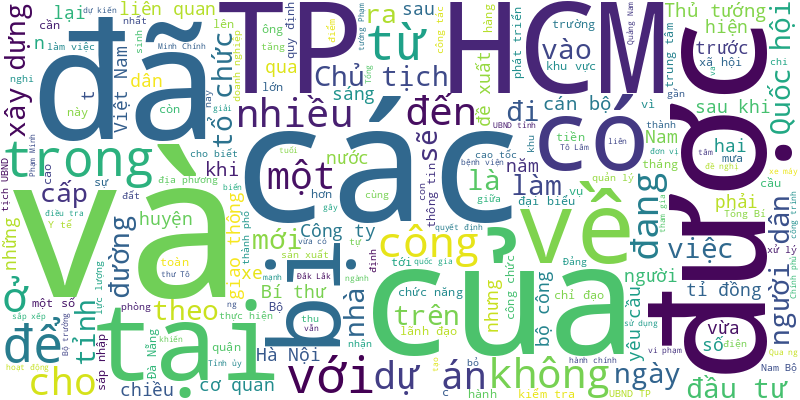
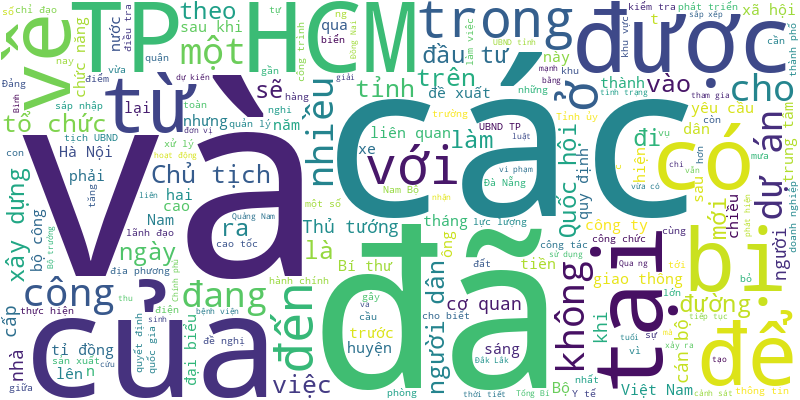
🍀 = 70%

diff --git a/README.md b/README.md
@@ -1,6 +1,25 @@
 # Tuoi Tre RSS 
 
 ## Giáo dục 
+- Chính quyền ông Trump vừa thông báo sẽ tích cực thu hồi thị thực (visa) của sinh viên Trung Quốc, một trong những nguồn thu lớn nhất của các trường đại học Mỹ.
+- B.G. (32 tuổi, TP.HCM) chuẩn bị đi học chương trình MBA tại Arizona State University, đang cân nhắc việc chuyển hướng sang Hà Lan nếu không xin được visa du học Mỹ.
+- 11 viện, trường đại học, trường cao đẳng được giao nhiệm vụ đào tạo nguồn nhân lực phục vụ phát triển điện hạt nhân đến năm 2035 tại Việt Nam.
+- Phụ huynh học sinh Trường Tiểu học Vĩnh Nguyên 1 không đồng tình với kế hoạch xáo trộn các lớp, cũng như việc ăn bán trú.
+- Thanh tra Bộ Giáo dục và Đào tạo yêu cầu hai trường đào tạo khối ngành y dược tổ chức kiểm điểm, làm rõ trách nhiệm những người để xảy ra thiếu sót, vi phạm trong đào tạo, tuyển sinh.
+- Đảng ủy xã ở Thanh Hóa công bố quyết định kỷ luật cảnh cáo bà Lê Thị Huệ - hiệu trưởng 1 trường mầm non - từng nói giáo viên là 'gái bao'.
+- Lãnh đạo tỉnh Bình Định khen thưởng bạn Lê Kiến Thành, học sinh xuất sắc đoạt huy chương bạc tại kỳ thi Olympic tin học APIO 2025.
+- Những ý tưởng khởi nghiệp của sinh viên cùng màn thuyết trình đầy lửa đã khiến các 'shark' phải gật đầu cam kết đầu tư ngay tại giảng đường.
+- Trường đại học Gia Định, TP.HCM sẽ tuyển sinh, đào tạo ngành răng - hàm - mặt trình độ đại học chính quy từ năm 2025.
+- Sáng 28-5, Thủ tướng Phạm Minh Chính đã thăm và phát biểu chính sách tại Đại học Quốc gia Malaysia (UKM).
+- Hình ảnh trẻ mầm non mặc áo cử nhân, đội mũ vuông, tay cầm “bằng tốt nghiệp” xuất hiện ngày càng phổ biến.
+- Đó là thông tin đặt ra tại hội nghị tập huấn nghiệp vụ thanh tra, kiểm tra thi tốt nghiệp THPT 2025 cho các sở GD-ĐT và các cơ sở ĐH ngày 27-5.
+- Người phát ngôn của Đệ nhất phu nhân Mỹ bác tin đồn cho rằng Barron bị Đại học Harvard từ chối vì mâu thuẫn giữa ông Trump và trường này.
+- Hiện nay ở nhiều địa phương, công tác tuyển dụng giáo viên không phải do ngành giáo dục chủ trì.
+- Sinh viên ngành truyền thông đa phương tiện Trường đại học Hòa Bình sẽ được học học phần nhiếp ảnh kỹ thuật số tại tòa soạn báo Tuổi Trẻ.
+- Nhật Bản kêu gọi các trường đại học trong nước tiếp nhận những sinh viên Harvard bị ảnh hưởng, coi đây là cơ hội nâng tầm giáo dục nước nhà.
+- Sau sáp nhập, nhiều tỉnh thành có hai trường đại học thuộc tỉnh. Một số tỉnh có trường đại học mang tên địa phương trước sáp nhập.
+- Hãy một lần ngồi xuống, nắm đôi bàn tay của ba, nhìn sâu vào đôi mắt của mẹ, để hiểu rằng ba mẹ vô cùng cực nhọc để có thể lo cho em.
+- Suốt ba năm qua, các địa phương mới chỉ tuyển được gần 6.000 giáo viên trong số 66.000 chỉ tiêu biên chế được giao.
 - Ngoại trưởng Mỹ chỉ đạo tạm dừng cấp lịch phỏng vấn cấp visa du học trong thời gian triển khai kiểm tra mạng xã hội các ứng viên visa.
 - Politico nhận định nếu Washington tiến hành kế hoạch trên, quá trình xử lý thị thực sinh viên có thể bị làm chậm nghiêm trọng.
 - Đội tuyển học sinh Việt Nam đứng thứ năm trong kỳ thi Olympic tin học châu Á - Thái Bình Dương với 1 huy chương vàng, 2 huy chương bạc và 3 huy chương đồng.
@@ -984,27 +1003,60 @@ Trường đại học Văn Lang được QS xếp hạng top 51-100 thế giớ
 - Thí sinh thắc mắc cận thị hơn 3 độ có xét tuyển vào Học viện Kỹ thuật quân sự được không?
 - Thông tin tuyển sinh sai có thể khiến bạn trẻ lệch hướng. Vì vậy đừng ngần ngại đặt câu hỏi, đừng ngại chia sẻ những băn khoăn, ước mơ của mình với các thầy cô và chuyên gia.
 - Nhiều học sinh, phụ huynh chia sẻ đã chốt được ngành học sau khi đến tìm hiểu thông tin tại Ngày hội tư vấn tuyển sinh - hướng nghiệp của báo Tuổi Trẻ.
-- Sáng 2-3, Ngày hội tư vấn tuyển sinh - hướng nghiệp tại TP.HCM chính thức diễn ra với hàng chục ngàn học sinh, phụ huynh từ các tỉnh thành phía Nam đến tham dự.
-- Việc miễn học phí giúp giảm gánh nặng cho phụ huynh, đồng thời tạo thêm động lực để học sinh nỗ lực học tập, hướng tới tương lai vững chắc.
-- Hai ngày hội sẽ mang đến cho học sinh, phụ huynh nhiều thông tin 'nóng hổi' về kỳ thi tốt nghiệp THPT và tuyển sinh đại học năm 2025.
-- Các trường đại học, cao đẳng... đã hoàn tất những khâu cuối cùng để chào đón thí sinh, phụ huynh đến dự Ngày hội tư vấn tuyển sinh - hướng nghiệp ngày mai 2-3.
-- Năm 2025, Trường đại học Quốc tế (Đại học Quốc gia TP.HCM) tuyển sinh theo 3 nhóm phương thức và sẽ thưởng điểm trong xét tuyển cho thí sinh trong 3 trường hợp.
-- Theo bà Tôn Nữ Thị Ninh, nếu biết phát triển lợi thế của mình, khắc phục điểm yếu và giữ vững sự tự tin, các bạn trẻ có thể tạo ra giá trị riêng.
-- Sau khi tự thiết kế các chiếc xe đua, các đội chơi sẽ đọ tốc độ để tìm ra quán quân giành những giải thưởng hấp dẫn.
-- Hội thi ảnh Tuổi Xanh năm nay gây bất ngờ khi có hơn 17.000 ảnh dự thi.
-- Nicky - một trong 30 Anh trai say hi mùa đầu tiên - là ca sĩ khách mời Ngày hội tư vấn tuyển sinh - hướng nghiệp 2025 do báo Tuổi Trẻ tổ chức tại Trường đại học Bách khoa TP.HCM, diễn ra vào chủ nhật, ngày 2-3.
-- Đây là một trong những định hướng phát triển trong quy hoạch mạng lưới cơ sở giáo dục đại học đến năm 2030.
-- Miễn học phí cho học sinh công lập thể hiện bước tiến lớn của Việt Nam trong xây dựng nền giáo dục công bằng, nhân văn, bền vững.
-- Xưng hô ra sao khi gặp bác sĩ dấy lên tranh cãi nhiều chiều từ bạn đọc. Bác sĩ Hồ Mạnh Tường chia sẻ ở góc độ người trong cuộc.
-- Năm học 2025-2026, các trường trung học phổ thông công lập tỉnh Thái Bình sẽ tuyển 16.275 học sinh với 365 lớp.
-- Học về vũ trụ, cơ hội việc làm ra sao? Chọn ngành học nào để 4-5 sau không bị 'tụt hậu'? Môi trường học ở trường quân đội khác dân sự thế nào?...
-- Mùa thực tập, nhiều sinh viên gửi hồ sơ khắp nơi nhưng không nhận được phản hồi. Nhiều sinh viên cho rằng yêu cầu kinh nghiệm là rào cản lớn với người sắp ra trường.
-- Sáng nay 1-3, hàng ngàn học sinh Hải Dương dự tư vấn tuyển sinh - hướng nghiệp tại Hải Dương với nhiều băn khoăn mong chờ được giải đáp.
-- Bà Vũ Thị Thúy Hà (51 tuổi, giáo viên Trường tiểu học Đông Thọ, TP Thanh Hóa, nguyên hiệu trưởng trường này) vừa bị khởi tố, tạm đình chỉ công tác vì liên quan đến bữa ăn bán trú.
-- Bộ Chính trị quyết định thực hiện miễn toàn bộ học phí cho học sinh từ mầm non đến hết trung học phổ thông công lập trên phạm vi cả nước, thực hiện từ đầu năm học mới 2025-2026.
-- Chương trình do Đại học Quản lý Singapore (SMU) thiết kế, hướng đến phát triển kiến thức và kỹ năng quản trị, tài chính, phát triển bền vững.
 ![Edu](Edu.png)
 ## Thời Sự 
+- Phán quyết của Tòa án Thương mại quốc tế Mỹ đình chỉ hầu hết các khoản thuế quan mà ông Trump áp đặt lên các nước.
+- Từ trung tâm đến cửa ngõ TP.HCM, hàng loạt tuyến đường và cầu xuống cấp sẽ được 'hồi sức', nhằm đảm bảo an toàn giao thông, nâng chất lượng hạ tầng.
+- Lực lượng cảnh sát bất ngờ kiểm tra một cửa hàng đồ si ở Long Xuyên, An Giang phát hiện nhiều hàng hóa có dấu hiệu nhập lậu và hàng giả mạo thương hiệu nổi tiếng. Lực lượng cảnh sát đã tạm giữ hàng loạt sản phẩm để tiếp tục điều tra.
+- Sáng nay (29-5), Quốc hội thảo luận ở hội trường nghị quyết về thí điểm viện kiểm sát nhân dân khởi kiện vụ án dân sự để bảo vệ quyền dân sự của các chủ thể là nhóm dễ bị tổn thương hoặc bảo vệ lợi ích công.
+- Thay vì quy định công chức xa chỗ làm 30km mới được mua nhà xã hội, dự thảo nghị quyết mới nhất quy định căn cứ điều kiện thực tế của địa phương, UBND cấp tỉnh quy định chi tiết.
+- Công an Đà Nẵng khởi tố vụ án chôn lấp trái phép 162 tấn chất thải rắn tại dự án nhà máy đốt chất thải rắn phát điện tại Khánh Sơn và khởi tố bị can liên quan để điều tra, xử lý nghiêm hành vi gây ô nhiễm môi trường.
+- Từ đêm hôm qua 28-5 đến sáng nay TP.HCM và Nam Bộ có mưa liên tục, hiện tại mây dông vẫn bao phủ, dự báo mưa lớn duy trì.
+- Hôm nay 29-5, thời tiết Bắc Bộ và Nam Bộ mưa nhiều nơi, một số tỉnh Trung Bộ ngày nắng, chiều tối mưa rào.
+- Tin tức đáng chú ý: Quốc hội biểu quyết thông qua nghị quyết thí điểm cơ chế phát triển nhà ở xã hội; Dự báo nợ xấu sẽ giảm về dưới 3%; Ngân hàng sắp bán đấu giá khoản nợ trăm tỉ của công ty 'họ' FLC...
+- Tổng Bí thư Tô Lâm nhấn mạnh hai dân tộc có quan hệ rất đặc biệt khi gặp Tổng thống Hungary Sulyok Tamas, đồng thời đề nghị tăng cường hợp tác trong nhiều lĩnh vực truyền thống.
+- TP.HCM sẽ thu hồi khu đất bãi xe hơn 3.500m² ở quận Tân Bình, giao Trung tâm Phát triển quỹ đất tiếp quản, quản lý.
+- Sở Xây dựng TP.HCM vừa có văn bản gửi các đơn vị liên quan đề nghị hướng dẫn giải quyết các vướng mắc trong việc lắp đặt trạm sạc điện tại TP.HCM.
+- Chủ tịch UBND TP.HCM cơ bản thống nhất nội dung dự thảo kế hoạch chi tiết xử lý vướng mắc cho các công trình, dự án tồn đọng.
+- Đảng ủy xã ở Thanh Hóa công bố quyết định kỷ luật cảnh cáo bà Lê Thị Huệ - hiệu trưởng 1 trường mầm non - từng nói giáo viên là 'gái bao'.
+- Đại biểu đề nghị Quốc hội quy định trách nhiệm của cơ quan thu thuế và thuế giá trị gia tăng (VAT), bởi hiện doanh nghiệp bức xúc vì lúc thu thuế rất dễ nhưng lúc hoàn rất khó.
+- Phó thủ tướng Lê Thành Long yêu cầu Bộ Y tế báo cáo rõ các hạn chế, bất cập trong các quy định về quản lý an toàn thực phẩm chức năng.
+- Tổng Bí thư Tô Lâm yêu cầu xóa bỏ thế độc quyền Nhà nước về thương hiệu vàng miếng một cách có kiểm soát.
+- Chiều 28-5, Chủ tịch UBND TP Hà Nội Trần Sỹ Thanh chủ trì hội nghị gặp gỡ, đối thoại với công nhân lao động thủ đô năm 2025.
+- Đề nghị quy định cấm phát biểu công kích cá nhân, cấm tự ý rời khỏi hội trường khi Quốc hội đang họp mà không có lý do chính đáng.
+- Ngày 28-5, trên Biển Đông hình thành một vùng áp thấp. Hiện cơ quan khí tượng chưa đưa ra nhận định về khả năng mạnh lên thành áp thấp nhiệt đới hoặc bão.
+- Thông điệp được Tổng thống Hungary Sulyok Tamas nêu trong cuộc hội đàm với Chủ tịch nước Lương Cường, tại Phủ Chủ tịch ngày 28-5.
+- Mô hình thí điểm của đề án tiếp tục đạt được lợi nhuận cao hơn từ 8,6 - 9 triệu đồng/ha, giảm chi phí sản xuất 2,63 triệu đồng/ha.
+- Vụ việc bảo vật quốc gia ngai vàng triều Nguyễn bị bẻ gãy gây rúng động dư luận. Tuy nhiên đây không phải là bảo vật quốc gia đầu tiên bị xâm hại ở Huế.
+- Lãnh đạo 3 địa phương Cần Thơ, Sóc Trăng và Hậu Giang thống nhất 4 khâu đột phá cho sự phát triển của thành phố Cần Thơ sau hợp nhất.
+- Nhiều bạn đọc lo ngại việc xây 5 tuyến đường xuyên trường đua Phú Thọ sẽ 'xé nhỏ' không gian vốn nên dành cho công viên, trung tâm thể thao tầm cỡ.
+- Tòa tuyên án đường dây cho vay nặng lãi quy mô ngàn tỉ qua app. Bị cáo cầm đầu Wang Yun Tao, người Trung Quốc, lãnh mức án 33 tháng tù.
+- Đồng Tháp đã cung ứng gần 9,5 triệu m³ cát cam kết cung ứng cho 4 công trình trọng điểm của trung ương.
+- Ban Thường vụ Tỉnh ủy Yên Bái và Lào Cai thông qua phương án nhân sự bước 1 tỉnh Lào Cai mới (sau hợp nhất).
+- Ban Chỉ đạo Trung ương đề nghị Bộ Nội vụ ban hành quy định tiêu chuẩn chức danh công chức xã, phường, đặc khu.
+- Bộ Nông nghiệp và Môi trường và Tổng cục Hải quan Trung Quốc thống nhất tháo gỡ những vướng mắc về xuất khẩu sầu riêng của Việt Nam.
+- Đến sáng 28-5, các đơn vị đã khắc phục cơ bản tình trạng bùn phun lên trên mặt đất, xảy ra trong quá trình đào hầm làm metro Nhổn - ga Hà Nội.
+- Đồng Nai yêu cầu các chủ đầu tư chỉ đạo nhà thầu khẩn trương khắc phục tình trạng thi công dự án trọng điểm quốc gia gây ngập úng, hư hỏng đường.
+- Sau khi xảy ra mâu thuẫn, một bác sĩ ở một phòng khám đa khoa tại thành phố Long Khánh, tỉnh Đồng Nai đã đâm đồng nghiệp bị thương.
+- Phó chủ tịch Quốc hội đề nghị các cơ quan chức năng, đối tác từ Trung Quốc tiếp tục tạo điều kiện rút ngắn thủ tục hành chính, tạo "luồng xanh".
+- Dù đã ký hợp đồng với 7 đơn vị thi công khắc phục sạt lở, nhưng gần 5 tháng nay việc thi công vẫn ì ạch, chỉ đạt hơn 40% khối lượng công trình.
+- Chỉ trong vòng 2 năm, TP.HCM đã ghi nhận gần 800 trường hợp "trẻ em sinh ra trẻ em".
+- Nhiều ngày qua, mỗi ngày có hàng chục tấn lục bình, rác thải tấp vào biển Vũng Tàu.
+- Bamboo Airways vừa ký hợp đồng thuê ướt tàu bay Boeing 737-900ER. Vietnam Airlines, Vietjet, Vietravel Airlines cũng mở rộng đội bay.
+- Hình ảnh trẻ mầm non mặc áo cử nhân, đội mũ vuông, tay cầm “bằng tốt nghiệp” xuất hiện ngày càng phổ biến.
+- Liên quan đến vụ tai nạn giao thông ở Vĩnh Long, điều tra viên Cơ quan điều tra Viện Kiểm sát nhân dân tối cao bắt đầu lấy lời khai gia đình nữ sinh.
+- Huế đề xuất với Bộ Văn hóa, Thể thao và Du lịch lập hội đồng khoa học để đánh giá tình trạng, đề xuất phương án sửa ngai vàng bị bẻ gãy.
+- Bình Phước đang xem xét đơn kiến nghị của Tập đoàn Sơn Hải, trong đó có nội dung đề nghị chấm thầu lại.
+- Lên rẫy theo cha mẹ đi nhổ mì, bé trai người Ba Na trèo lên xe máy cày để chơi, nhưng không may ngã xe chấn thương nặng và qua đời sau đó.
+- 'Cảm ơn rất nhiều', Tổng thống Pháp Emmanuel Macron bày tỏ bằng tiếng Việt trên mạng xã hội X sau khi khép lại chuyến thăm Việt Nam ngày 27-5.
+- Sắp tới nhà đất mua bằng giấy tay có thể được cấp giấy chứng nhận quyền sử dụng đất, quyền sở hữu nhà ở và tài sản khác gắn liền với đất?
+- Ông Cảnh mang theo bảng hình ảnh minh họa về tổ chức giao thông tại vòng xoay làm minh chứng.
+- Sáng 28-5, các đại biểu Quốc hội thảo luận ở hội trường về dự án Luật sửa đổi, bổ sung một số điều của Luật Quy hoạch.
+- Ngay sau lễ đón trọng thể sáng 28-5, Chủ tịch nước Lương Cường và Tổng thống Hungary Sulyok Tamas đã hội đàm tại Phủ Chủ tịch.
+- Vinacam kiến nghị Thủ tướng làm rõ trách nhiệm vụ sầu riêng bị trả vì dư lượng cadimi, nghi do phân bón DAP Hàn Quốc.
+- Theo kế hoạch trong tháng 6, TP.HCM sẽ khởi công nhiều hạng mục chiếu sáng mỹ thuật cho các công trình giúp thu hút du khách và người dân.
+- Suốt ba năm qua, các địa phương mới chỉ tuyển được gần 6.000 giáo viên trong số 66.000 chỉ tiêu biên chế được giao.
+- Do ảnh hưởng của gió mùa tây nam và hội tụ gió trên khu vực nên thời tiết Nam Bộ, TP.HCM có đợt mưa lớn trong những ngày cuối tháng 5.
 - Một số tin tức đáng chú ý: Quốc hội bàn sửa Luật Quy hoạch, giảm 2% thuế VAT đến hết 2026; F88 lên kế hoạch chia cổ phiếu thưởng 1.200%; Điều chỉnh giao thông đường Lê Lợi, quận 1, TP.HCM...
 - Thay vì cấp thuốc bảo hiểm y tế hàng tháng, nhiều người mắc bệnh mạn tính như tiểu đường, huyết áp... mong được cấp thuốc 2 hoặc 3 tháng/lần để giảm thời gian chờ khám và giảm tải bệnh viện.
 - Hôm nay 28-5, thời tiết Bắc Bộ nhiều mây, chiều tối và đêm mưa tăng. Trung Bộ có nơi mưa to, Nam Bộ mưa tăng trở lại.
@@ -1052,7 +1104,7 @@ Trường đại học Văn Lang được QS xếp hạng top 51-100 thế giớ
 - Người dân đi từ quốc lộ 13 vào trung tâm TP.HCM thắc mắc vì sao đường chui Tầm Vu dưới chân cầu Bình Triệu bị rào chắn?
 - Ông ngoại lái ô tô chở cháu 30 tháng tuổi từ huyện Tư Nghĩa đến TP Quảng Ngãi. Khi qua cầu không có lan can, chiếc xe lao xuống sông Phước Giang.
 - Đà Nẵng cảnh báo tình trạng khan hiếm cát xây dựng có thể ảnh hưởng đến mục tiêu tăng trưởng trên 10% của thành phố trong năm 2025.
-- Dự án xây mới 5 tuyến đường khu Trường đua Phú Thọ là tiền đề để hình thành một khu liên hợp thể thao hoàn chỉnh, sẵn sàng phục vụ Đại hội Thể thao toàn quốc năm 2026.
+- Dự án xây mới 5 tuyến đường khu trường đua Phú Thọ là tiền đề để hình thành một khu liên hợp thể thao hoàn chỉnh, sẵn sàng phục vụ Đại hội Thể thao toàn quốc năm 2026.
 - Tập đoàn Trường Hải (THACO) vừa có văn bản gửi Thủ tướng Phạm Minh Chính và Phó thủ tướng Trần Hồng Hà, đề xuất được tham gia đầu tư dự án đường sắt tốc độ cao Bắc - Nam với cam kết làm chủ công nghệ, phát triển công nghiệp đường sắt Việt Nam.
 - Đại biểu Quốc hội tranh luận sôi nổi về việc bổ sung án chung thân không xét giảm án trong dự án luật.
 - Sở Xây dựng TP.HCM vừa thông báo điều chỉnh tổ chức giao thông trên đường dẫn cao tốc TP.HCM - Long Thành - Dầu Giây nhằm đảm bảo an toàn giao thông.
@@ -1953,60 +2005,11 @@ Trường đại học Văn Lang được QS xếp hạng top 51-100 thế giớ
 - Sau các vụ sụt đường ở Tây Ninh, máy bay trượt khỏi đường băng Tân Sơn Nhất…, bộ trưởng Bộ Xây dựng ban hành công điện đề nghị tăng cường công tác bảo đảm an toàn giao thông trên lĩnh vực.
 - Ngày 11-5, TP Hải Phòng tổ chức các sự kiện, chương trình chào mừng kỷ niệm 70 năm Ngày giải phóng Hải Phòng - Thành phố Anh hùng.
 - Công an tỉnh Quảng Ngãi bắt giữ 4 thanh niên chém người ở Đà Lạt khi đang lẩn trốn trên một chuyến xe khách.
-- Thủ tướng Phạm Minh Chính nhấn mạnh quyết tâm cơ bản xóa nhà tạm, nhà dột nát trên phạm vi cả nước trước ngày 31-10, sớm hơn 2 tháng so với mục tiêu ban đầu đã đề ra.
-- Kỹ thuật thụ tinh trong ống nghiệm đã giúp nhiều gia đình có được hạnh phúc. Tuy nhiên cũng có nhiều góc khuất nhiều người chưa hiểu hết.
-- Nhân chuyến công tác Nga, ngày 11-5, Tổng Bí thư Tô Lâm đã tiếp một số doanh nghiệp tiêu biểu của nước này. Ông khẳng định Việt Nam hoan nghênh các doanh nghiệp Nga mở rộng hợp tác, đầu tư.
-- Một người phụ nữ ở huyện miền núi Quảng Nam đã bị công an bắt sau hơn 10 năm bỏ trốn do bị truy nã về hành vi mua bán người.
-- Nút giao Ngọc Hội ở TP Nha Trang (Khánh Hòa) xuất hiện vết sụt lún dù chưa thi công xong.
-- Ngày 11-5 đã diễn ra lễ tổng kết và trao giải kỳ thi Olympic Cơ học toàn quốc lần thứ 35 - năm 2025 khu vực miền Bắc.
-- Trong khi đang câu cá ngừ đại dương, 1 tàu cá Bình Định bị chìm. 3 thuyền viên được cứu sống, 1 ngư dân mất tích.
-- Sau sắp xếp, cả nước từ 10.035 đơn vị cấp xã giảm 6.714 đơn vị (giảm 66,91%), còn 3.321 đơn vị hành chính cấp xã.
-- Cộng đồng mạng Phú Quốc vừa đăng tải đoạn clip ngắn cảnh hãi hùng về một người cầm vật lạ trên tay rồi liên tục gí vào người phụ nữ.
-- Bé 10 tháng tử vong tại điểm giữ trẻ, trong máu có nồng độ cồn; Lòng se điếu bán đầy thị trường... thu hút nhiều bạn đọc quan tâm tuần qua.
-- Bảy người bị ngã xuống hố sụt lún đường dẫn cầu Hòa Bình, tỉnh Tây Ninh, trong đó 5 người bị thương hiện hầu hết đã xuất viện.
-- Sáng 11-5, khu chuồng hổ Bengal tại Thảo cầm viên Sài Gòn rộn ràng với buổi sinh nhật độc lạ: Bình và Dương vừa tròn 2 tuổi.
-- Chủ tịch Quốc hội Trần Thanh Mẫn lưu ý tuyệt đối tránh tiêu cực và phải công tâm, khách quan trong đề xuất, giới thiệu nhân sự sau sắp xếp.
-- Sáng 11-5, sau cơn mưa lớn hôm qua, nước rút, người dân tại hẻm 789 tỉnh lộ 43, phường Tam Bình (TP Thủ Đức, TP.HCM) tất bật dọn dẹp.
-- Các đơn vị nghiệp vụ Công an tỉnh Khánh Hòa đang điều tra nguyên nhân vụ tai nạn giao thông ở trung tâm Nha Trang khiến một người phụ nữ tử vong.
-- Tuổi Trẻ Online trân trọng giới thiệu toàn văn bài viết 'Động lực mới cho phát triển kinh tế' của Tổng Bí thư Tô Lâm.
-- Tuyến đường 2 làn xe, tổng số tiền đầu tư 35 tỉ đồng nhưng đâm thẳng ra ruộng lúa, chờ ngày có khu dân cư trong tương lai.
-- Bộ Công Thương kiến nghị Thủ tướng cho phép điều chỉnh quy hoạch khoáng sản theo trình tự rút gọn sau khi 46/63 tỉnh, thành phố đồng loạt phản ánh.
-- Mưa lớn, dông lốc tại các tỉnh Bắc Bộ, Trung Bộ và Nam Bộ làm 1 người chết, 1 người nghi mất tích do nước cuốn.
-- Hàng vạn người đổ về khu vực Nhà hát thành phố xem duyệt đội ngũ và diễu hành quần chúng kỷ niệm 70 năm giải phóng Hải Phòng.
-- Vì sao hỗ trợ chỉ áp dụng cho phụ nữ dưới 35 tuổi sinh đủ hai con ở TP.HCM? Sao không áp dụng với tất cả phụ nữ sinh 2 con?
-- Lực lượng cứu hộ, cứu nạn Công an Bình Dương nỗ lực tìm kiếm ông Võ Văn P. (36 tuổi, quê Long An) nghi bị nước cuốn trôi sau cơn mưa lớn.
-- Tuần này thời tiết cả nước có nắng nhưng mưa dông chiếm ưu thế, nhiều nơi mưa to.
-- Ngày 10-5, tại Nga, VNVC và Quỹ Đầu tư Trực tiếp Nga ký thỏa thuận hợp tác chiến lược nghiên cứu, chuyển giao công nghệ sản xuất vắc xin.
-- Hải Phòng duyệt đội ngũ và diễu hành quần chúng biểu dương lực lượng chào mừng kỷ niệm 70 năm Ngày Giải phóng Hải Phòng.
-- Theo dự kiến sẽ chuyển gần như tuyệt đối nhiệm vụ, quyền hạn của cấp huyện hiện hành về cấp xã mới.
-- Trong báo cáo gửi Quốc hội, Bộ trưởng Nguyễn Kim Sơn thông tin  nội dung liên quan quản lý dạy thêm, học thêm, sách giáo khoa.
-- Vụ sụp lún đường dẫn cầu Hòa Bình, huyện Châu Thành, Tây Ninh khiến ô tô và xe máy rớt xuống hố sụp lún làm 6 người phải đi cấp cứu.
-- Đà Nẵng ban hành đề án về sắp xếp tổ chức đảng, thành lập 15 đảng bộ phường, xã và chi bộ đặc khu Hoàng Sa.
-- Mùa mưa tại khu vực Nam Bộ và Tây Nguyên đã chính thức bắt đầu khi xuất hiện các cơn mưa to đến rất to.
-- Tổng Bí thư Tô Lâm và Tổng thống Nga Vladimir Putin cùng chứng kiến việc trao văn kiện hợp tác giữa hai nước, trong đó có các lĩnh vực liên quan dầu khí, năng lượng hạt nhân, y sinh...
-- Việc thực hiện dạy học 2 buổi/ngày không thu phí của người học như tinh thần chỉ đạo của Tổng Bí thư Tô Lâm sẽ phải bắt đầu lộ trình thế nào và thay đổi gì so với cách làm hiện thời?
-- Lộ diện quỹ ngoại bị rút ròng nhiều nhất ở thị trường chứng khoán Việt; Gia tăng người bị cao huyết áp.
-- Tổng Bí thư Tô Lâm và Tổng thống Nga Vladimir Putin nhất trí tạo bước phát triển mới, thực chất và hiệu quả trong nhiều lĩnh vực.
-- Hôm nay 11-5, hầu hết các khu vực trên cả nước đều có mưa, nhiều nơi mưa to đến rất to do không khí lạnh, rãnh áp thấp hoạt động.
-- Thủ tướng Phạm Minh Chính yêu cầu hệ thống chính sách của Trung tâm tài chính quốc tế phải đột phá, vượt trội để thuyết phục được nhà đầu tư từ Trung Đông, Trung Quốc, ASEAN, Mỹ, châu Âu…
-- Sau bài phát biểu tại Học viện Hành chính công và Kinh tế quốc dân trực thuộc Tổng thống Nga (RANEPA), Tổng Bí thư Tô Lâm đã nhận danh hiệu Giáo sư danh dự và bản sao bản luận án của cố Tổng Bí thư Nguyễn Phú Trọng.
-- Sân bay Gia Bình sẽ vừa phục vụ quốc phòng, an ninh vừa khai thác dân sự, phát triển kinh tế - xã hội, đồng thời xây dựng trung tâm logistics tại khu vực sân bay.
-- Loại hỏa pháo được bắn từ súng thần công ở Kỳ đài Huế hôm 3-5 được mua từ năm 2023 và hết hạn sử dụng từ lâu, dẫn đến sự cố trên.
-- Công ty cổ phần đầu tư F88 chuẩn bị niêm yết trên sàn UpCOM. Nhiều thông tin tài chính được chuỗi cầm đồ lớn nhất cả nước này minh bạch tại báo cáo tài chính đã kiểm toán năm 2024.
-- Nhiều người dù nghi ngờ mình bị đột quỵ nhưng vẫn chần chừ, chờ triệu chứng tự hết hoặc làm theo 'mẹo dân gian', dẫn đến bỏ lỡ thời gian vàng.
-- Với thủ đoạn tìm người có nhu cầu làm thêm dưới hình thức mở các khoản vay trên ví điện tử Momo, ví trả sau, mở các thẻ tín dụng ngân hàng để nhận hoa hồng… 2 nghi phạm đã lừa đảo hàng chục người trên cả nước, chiếm hơn 2 tỉ đồng.
-- Hàng loạt dự án ngàn tỉ do Ban Quản lý Khu kinh tế Dung Quất và các khu công nghiệp Quảng Ngãi làm chủ đầu tư được chuyển cho Ban Quản ý dự án đầu tư xây dựng các công trình giao thông Quảng Ngãi.
-- Đại sứ quán Việt Nam tại Ấn Độ thiết lập đường dây nóng bảo hộ công dân với số điện thoại  91 7042035588 và tổng đài bảo hộ công dân 84 981848484.
-- Trưa 10-5 (giờ địa phương, chiều cùng ngày giờ Việt Nam), Tổng Bí thư Tô Lâm đã gặp và có cuộc hội đàm hẹp với Tổng thống Nga Vladimir Putin tại Điện Kremlin.
-- Chủ tịch Quốc hội Trần Thanh Mẫn nêu thực tế nhiều khi ở địa phương, bí thư, chủ tịch nhiệm kỳ này quy hoạch như thế này nhưng bí thư, chủ tịch sau lên lại thay đổi, bổ sung.
-- Chủ tịch nước Lương Cường đã gửi điện chúc mừng tân Giáo hoàng Leo XIV ngày 10-5, theo Bộ Ngoại giao.
-- Trung úy Phạm Khắc Giang, người được bắt tay Tổng thống Nga Putin trong lễ duyệt binh tại Quảng trường Đỏ, chia sẻ đây là vinh dự của anh em toàn khối, những đồng đội ở nhà...
-- Công an TP.HCM vừa có văn bản gửi các sở ngành, địa phương ở TP.HCM về việc tổ chức cho người dân góp ý dự thảo sửa đổi, bổ sung Hiến pháp 2013 qua VNeID.
-- Chủ tịch Quốc hội cho hay Ủy ban Thường vụ Quốc hội sẽ họp 2 đợt xem xét nhiều nội dung như sửa Bộ luật Hình sự, chủ trương đầu tư đường vành đai 4 TP.HCM.
-- Cảnh sát cho hay lúc 8h40 ngày 10-5, anh N.B.A. (trú tại quận Hoàng Mai, Hà Nội) - tài xế ô tô tông liên hoàn 6 xe máy - đã đến cơ quan công an làm việc.
-- Chủ tịch UBND tỉnh Long An chỉ đạo các đơn vị liên quan rà soát các dự án từ 2019 đến 2023 để phục vụ điều tra vụ án liên quan Công ty TNHH cây xanh Công Minh.
 ![New](News.png)
 ## Nhịp sống số 
+- Veo 3, công nghệ AI tạo video mới của Google, đang gây sốt trong giới công nghệ. Tuy nhiên, như mọi công nghệ đột phá khác, nó mang đến cả cơ hội lẫn rủi ro.
+- Video đám cưới Barron Trump và Công chúa Leonor đã làm rung chuyển mạng xã hội. Công nghệ AI tạo ra hình ảnh và giọng nói chân thực khiến nhiều người không thể phân biệt thật - giả.
+- Bạn có thể 'nói' điều mình chưa từng nói, 'làm' điều mình chưa từng làm chỉ với một bức ảnh. Deepfake đang khiến ranh giới thật - giả trở nên mờ nhòe đến nguy hiểm.
 - Định danh điện tử đang trở thành công cụ quan trọng trong thời đại số hóa, giúp đơn giản hóa các giao dịch trực tuyến và tăng cường bảo mật. Tuy nhiên, người dùng cần hiểu rõ bản chất và lưu ý khi sử dụng để đảm bảo an toàn thông tin.
 - Mặc dù Facebook Messenger khá phổ biến nhưng không phải người dùng nào cũng thích xài. Và họ đã tìm đến những ứng dụng nhắn tin thay thế khác.
 - Ngày 26-5, FPT được vinh danh 'Nhà mạng được yêu thích nhất' tại Vietnam Gameverse 2025, với lượng bình chọn áp đảo từ cộng đồng game thủ cả nước.
@@ -3003,7 +3006,4 @@ Trường đại học Văn Lang được QS xếp hạng top 51-100 thế giớ
 - TTO - Nhà chức trách Trung Quốc đã chấp thuận phê chuẩn thương vụ mua nhà sản xuất chip Hà Lan NXP của hãng Qualcomm (Mỹ) với giá thâu tóm 44 tỉ USD.
 - TTO - Sẽ hỗ trợ phát triển ứng dụng công nghệ Blockchain thông qua các chương trình KH&amp;CN cấp quốc gia và ưu tiên hỗ trợ doanh nghiệp khởi nghiệp thực hiện dự án có ứng dụng công nghệ blockchain
 - TTO - Ứng dụng HerVenture trên thiết bị di động ở Việt Nam cung cấp một phương tiện học tập và tư vấn trực tuyến giá rẻ và linh hoạt cho các nữ chủ doanh nghiệp vừa được chính thức ra mắt sáng ngày 14-6.
-- TTO - Trong một động thái được cho là phản ứng đối đầu của Apple với lực lượng hành pháp, công ty này cho biết sẽ tung ra phần mềm cho phép vô hiệu hóa luôn cửa bảo mật cuối cùng của iPhone.
-- TTO - Mặc dù giá đồng tiền ảo Bitcoin không được khả quan thời gian gần đây nhưng những chiếc máy ‘đào’ tiền ảo vẫn thu hút sự quan tâm mạnh của giới thợ ‘đào’.
-- TTO - Từ năm 2015, Amanda Southworth đã bắt đầu viết các ứng dụng di động và đến nay, các dự án của cô gái 16 tuổi này đã nhận được khoản tài trợ 25.000 USD.
 ![life](Life.png)
